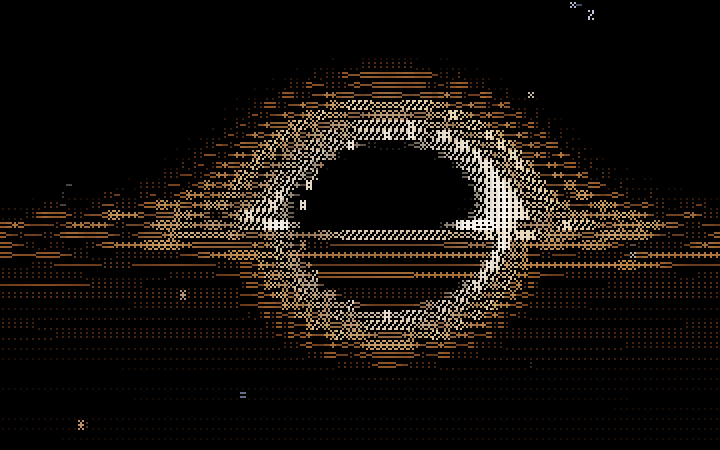
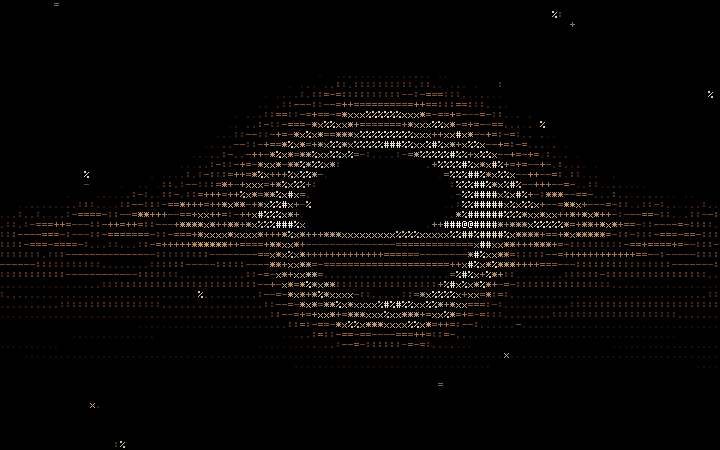
chore: rename crate to black-hole-ascii and refine showcase assets

diff --git a/examples/bench.rs b/examples/bench.rs
@@ -1,10 +1,10 @@
 //! Real-world CPU rendering benchmark across terminal resolutions and metrics.
 //! Run with: `cargo run --release --example bench`
 
-use black_hole_ascii_simulation::physics::black_hole::{BlackHole, MetricModel, OrbitingPlanet};
-use black_hole_ascii_simulation::render::buffer::{FrameBuffer, RenderMode};
-use black_hole_ascii_simulation::render::camera::Camera;
-use black_hole_ascii_simulation::render::raycaster::Raycaster;
+use black_hole_ascii::physics::black_hole::{BlackHole, MetricModel, OrbitingPlanet};
+use black_hole_ascii::render::buffer::{FrameBuffer, RenderMode};
+use black_hole_ascii::render::camera::Camera;
+use black_hole_ascii::render::raycaster::Raycaster;
 use std::time::Instant;
 
 fn bench_config(name: &str, cols: usize, lines: usize, metric: MetricModel) {

diff --git a/src/main.rs b/src/main.rs
@@ -1,6 +1,6 @@
-use black_hole_ascii_simulation::app::App;
-use black_hole_ascii_simulation::render::buffer::RenderMode;
-use black_hole_ascii_simulation::render::hud::Lang;
+use black_hole_ascii::app::App;
+use black_hole_ascii::render::buffer::RenderMode;
+use black_hole_ascii::render::hud::Lang;
 
 fn main() {
     let args: Vec<String> = std::env::args().collect();

diff --git a/README.md b/README.md
@@ -1,10 +1,10 @@
-# black-hole-ascii-simulation
+# black-hole-ascii
 
 > **Real-Time 4D Kerr-Schild Relativistic Black Hole Simulator in Pure Rust**  
 > *Rendered directly in your terminal using 24-bit TrueColor ANSI Half-Block & ASCII Geodesic Raymarching — 100% CPU, zero GPU dependencies.*
 
 [![Rust](https://img.shields.io/badge/rust-1.80%2B-orange.svg?style=flat-square&logo=rust)](https://www.rust-lang.org)
-[![Release](https://img.shields.io/badge/release-v0.1.0-blue.svg?style=flat-square)](https://github.com/PedroSmaxY/black-hole-ascii-simulation/releases)
+[![Release](https://img.shields.io/badge/release-v0.1.0-blue.svg?style=flat-square)](https://github.com/PedroSmaxY/black-hole-ascii/releases)
 [![License: MIT](https://img.shields.io/badge/License-MIT-green.svg?style=flat-square)](LICENSE)
 [![Platforms](https://img.shields.io/badge/platforms-Windows%20%7C%20macOS%20%7C%20Linux-lightgrey.svg?style=flat-square)]()
 [![Terminal](https://img.shields.io/badge/terminal-TrueColor%2024--bit-purple.svg?style=flat-square)]()
@@ -14,9 +14,9 @@
 ## Visual Showcase
 
 <p align="center">
-  <img src="assets/screenshots/demo.gif" alt="Intro Dive, Zen Mode & ASCII Transition" width="85%" />
+  <img src="assets/screenshots/demo.gif" alt="Intro Dive & Zen Mode in Half-Block" width="85%" />
   <br />
-  <em>Startup Intro Dive, Zen Mode autopilot, and real-time Half-Block to Classic ASCII transition (<code>[M]</code>).</em>
+  <em>Startup Intro Dive and Zen Mode autopilot in 24-bit TrueColor Half-Block mode (<code>▀</code>).</em>
 </p>
 
 <p align="center">
@@ -36,30 +36,23 @@
 ### Classic ASCII Output (`--ascii` or `[M]`)
 
 ```text
-                                                        %                 
-                                                                          
-                                                                          
-                              ......::.::......                          
-                            ..:==-:-=-=-=-::=-...                        
-                         ..:=:-+==x%%%%%%%x==+=-=:...                :   
-                       .:-:-=-*%*=**x%%%xxx=x%x=+-=::.                   
-                     ..::-==%x=*%x%%*+++x%%x#x+x%-+-+...                 
-                   ..:-.+=*x=*x%*:         :%%#%*%%==-=...               
-                ..::-:-++%x+%xx:             -%##*x%-+=-=.:....          
-     .  ....:-..:::=*+=*x=*%%x:               *###xx%*-*x---..:...... .  
-..::...:===:--**+--=**+--+%%%x*               .%####%xxxx+**x*+:--=-:..::-
-:---==---:=====::==+xxxxx*==+*x=+x%#####%%%%%%xx%#%%#%**+=+****=:-::==-=-:
-::-===-==-::..:::::-=++**++*xxx*+++++++++++===++x#**+-::::::::-=++=+++=-:-
--::::::::......::::--------+x+%*=---==========+x%x%**+++=---::::::::::::--
-::::::::::::--------:::::::--%=%**:..........+#%*%+--::::::::::::::::::::.
-..........................::-+**+x*xx*===+x%x%*xx+::......................
-::::::::::::::...............:-+-x*=***x***=x%=+-:...x.......:::::::::::::
-..............................::---==-+++-===-=::..........:::::::::::::::
-                 ..................::::-::::..............................
-  ........................................................................
-.                                                               ..........
-............=.............................................................
-                            ...................................           
+             :                                                          
+                                                  =                     
+                                                                        
+                                                                        
+                                    ...                                 
+                               .:=-::::-==:.                            
+                           ..::-=-*%%%%%x=-=--:.                        
+                          :=:+=%**%xxxxx#x*#++:=:                       
+                        :-:=-%=*x%:      x%#*#-+--:                     
+                    ::.-:=++x+%#-         .%#x%x:*-=.: ..               
+       ... .....:=--=*+-=x+:*#%*           %##%*x**x*:-=: :-:..:..      
+ .     ::-:::--=:-:===--==***xxx+*xxxx**x%%%#%++=***-::-==-:::---:: ... 
+ .... ...:::--::::..:---::----+*=:-------=+x%%++++=---:::--:--:..    ...
+      .....:.............::::-+=%*-::::--=%*%+-......x   ..::..::..     
+     :                    ....=-x+*%*xxxx+%=-:.....               ..    
+                                -:+==*+-=-=:.                           
+                                   .                                    
 ```
 
 ---
@@ -99,12 +92,12 @@ As $M \to 0$, the event horizon contracts, blackbody Hawking radiation heats fro
 ## Installation & Running
 
 ### Option 1: Pre-built Binaries (Recommended)
-Download the latest release for **Windows**, **macOS (Apple Silicon / Intel)**, or **Linux (x64 / ARM64)** from the [Releases](https://github.com/PedroSmaxY/black-hole-ascii-simulation/releases) page and run it in any 24-bit TrueColor terminal (Windows Terminal, iTerm2, Ghostty, Kitty, WezTerm, Alacritty).
+Download the latest release for **Windows**, **macOS (Apple Silicon / Intel)**, or **Linux (x64 / ARM64)** from the [Releases](https://github.com/PedroSmaxY/black-hole-ascii/releases) page and run it in any 24-bit TrueColor terminal (Windows Terminal, iTerm2, Ghostty, Kitty, WezTerm, Alacritty).
 
 ### Option 2: Build from Source (Rust 1.80+)
 ```bash
-git clone https://github.com/PedroSmaxY/black-hole-ascii-simulation.git
-cd black-hole-ascii-simulation
+git clone https://github.com/PedroSmaxY/black-hole-ascii.git
+cd black-hole-ascii
 cargo run --release
 ```
 
